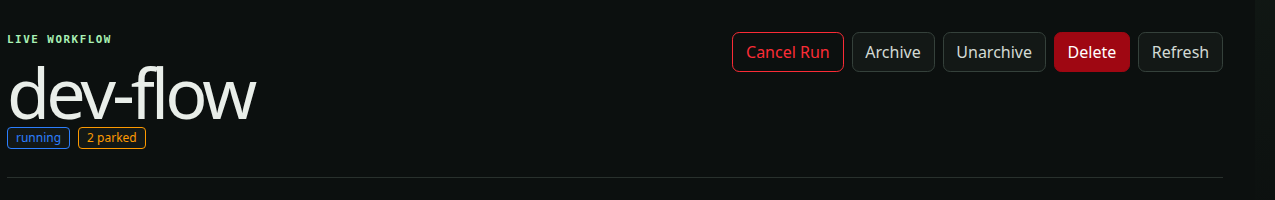
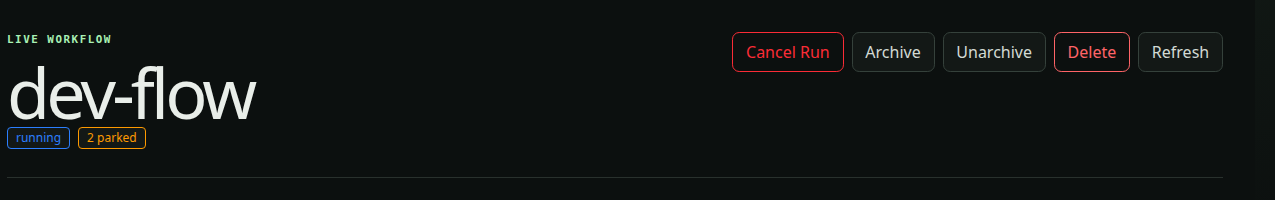
Align RunDetail danger button with app theme and test feedback roles

Changed region(s): [[0.8259, 0.15, 0.8871, 0.36]]

diff --git a/kbbl/core/pwa/oakridge/__tests__/oakridge.test.tsx b/kbbl/core/pwa/oakridge/__tests__/oakridge.test.tsx
@@ -227,6 +227,12 @@ describe("RunDetail stage list", () => {
     });
   }
 
+  it("announces loading as a status", () => {
+    vi.spyOn(globalThis, "fetch").mockImplementation(() => new Promise(() => {}));
+    wrap(<RunDetailOrganism runId="run-1" onRunDeleted={() => {}} onSelectArtifact={() => {}} />);
+    expect(screen.getByText("Loading run…").getAttribute("role")).toBe("status");
+  });
+
   it("renders stage rows with name and status", async () => {
     vi.spyOn(globalThis, "fetch").mockImplementation(makeFetch());
     wrap(<RunDetailOrganism runId="run-1" onRunDeleted={() => {}} onSelectArtifact={() => {}} />);
@@ -260,7 +266,7 @@ describe("RunDetail stage list", () => {
   it("shows error state when run fetch fails", async () => {
     vi.spyOn(globalThis, "fetch").mockResolvedValue(json({ error: "not found" }, 404));
     wrap(<RunDetailOrganism runId="run-1" onRunDeleted={() => {}} onSelectArtifact={() => {}} />);
-    expect(await screen.findByTestId("or-run-detail-error")).toBeTruthy();
+    expect((await screen.findByTestId("or-run-detail-error")).getAttribute("role")).toBe("alert");
   });
 
   it("keeps full cohort briefs out of the stage list while rendering admission controls", async () => {

diff --git a/kbbl/core/pwa/components/atoms/Button.tsx b/kbbl/core/pwa/components/atoms/Button.tsx
@@ -13,7 +13,7 @@ const VARIANT_CLASS: Record<ButtonVariant, string> = {
   danger:
     "border border-red-500 bg-transparent text-red-500 hover:bg-red-500 hover:text-white",
   "accent-outline": "border border-[var(--accent-blue)] bg-transparent text-[var(--accent-blue)] hover:bg-[var(--accent-blue)] hover:text-white",
-  "danger-strong": "border border-red-800 bg-red-800 text-white hover:bg-red-700 dark:border-red-400 dark:bg-red-400 dark:text-red-950 dark:hover:bg-red-300",
+  "danger-strong": "border border-red-400 bg-transparent text-red-400 hover:bg-red-400 hover:text-black [[data-theme=light]_&]:border-red-800 [[data-theme=light]_&]:text-red-800 [[data-theme=light]_&]:hover:bg-red-800 [[data-theme=light]_&]:hover:text-white",
   link: "border-0 bg-transparent p-0 text-[var(--accent-blue)] underline hover:text-[var(--text-primary)]",
   bare: "",
 };
